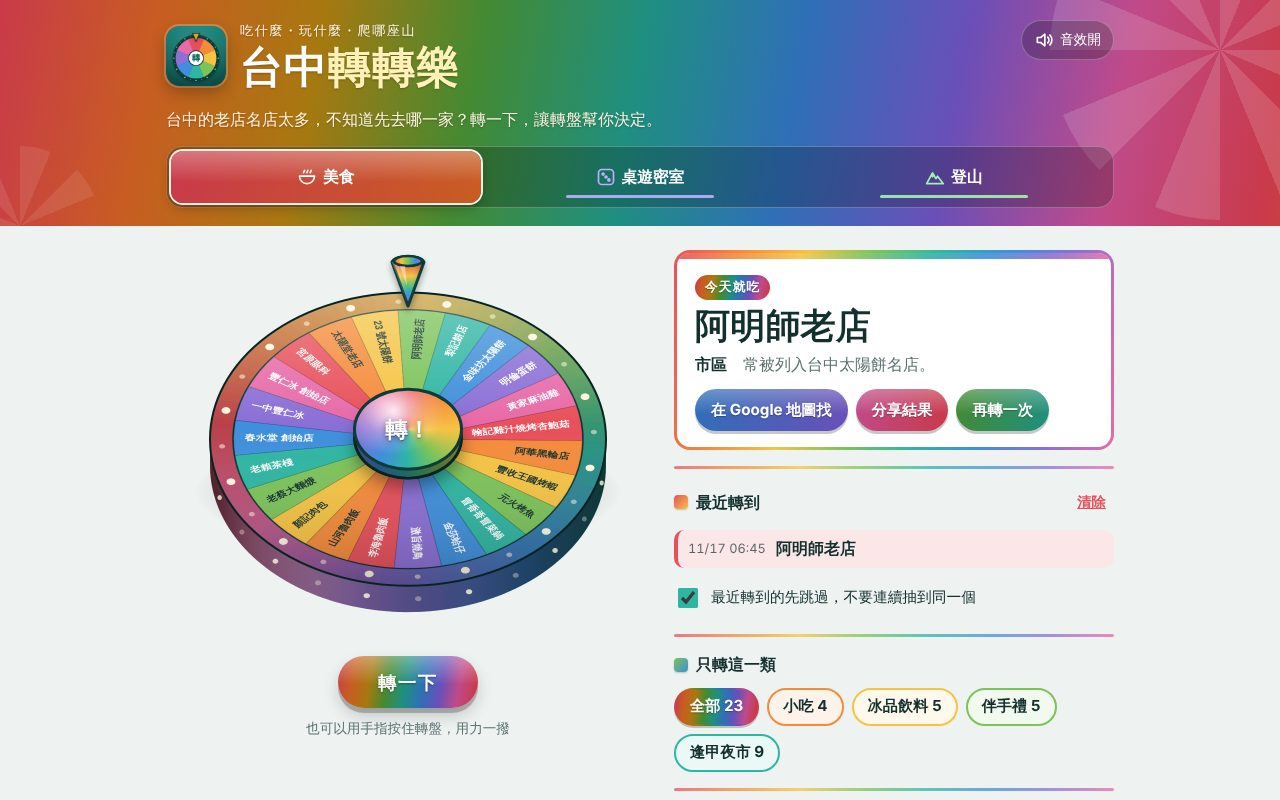
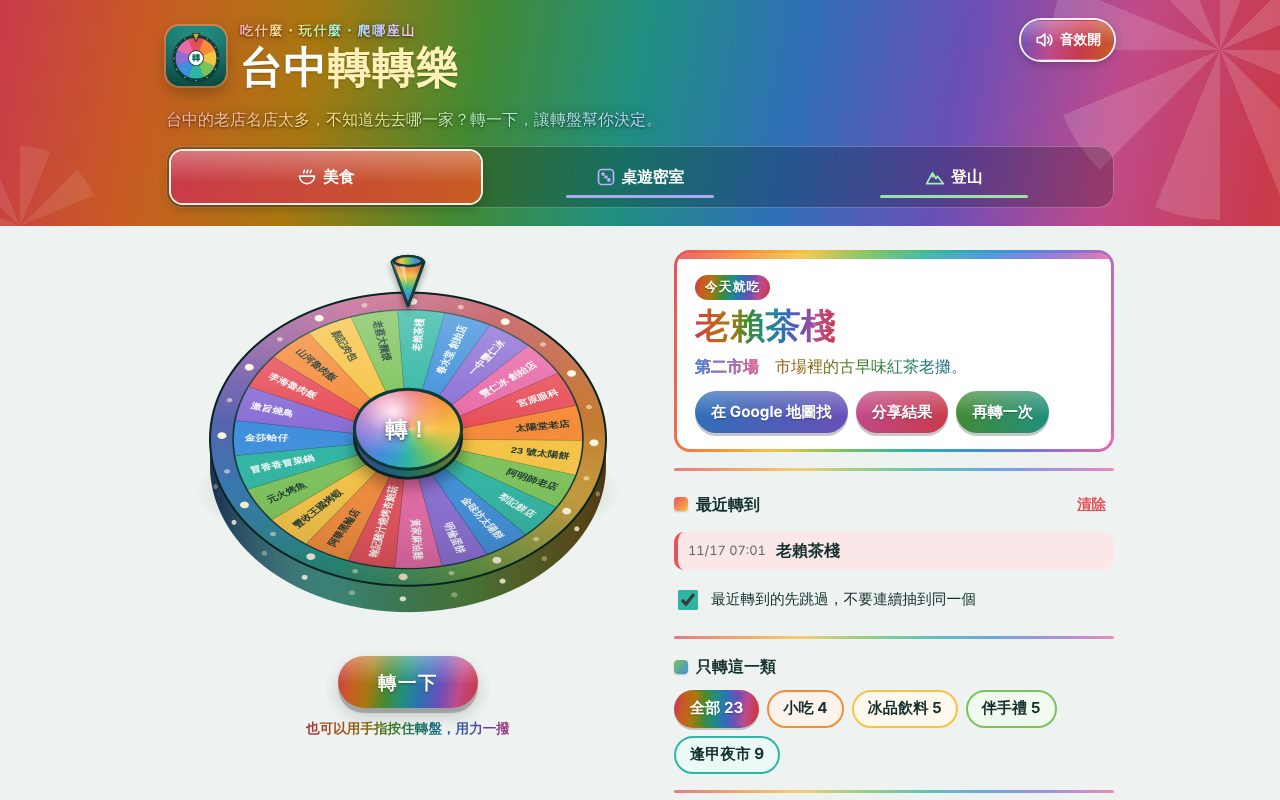
台中轉轉樂：提示文字與介紹文字改成五彩
Claude-Session: https://claude.ai/code/session_01RjTRgTtaL6n1Y88vUja3y2

diff --git a/wheel/index.html b/wheel/index.html
@@ -155,14 +155,22 @@
     width: 60px; height: 60px; flex: none; border-radius: 22%;
     box-shadow: 0 6px 16px rgba(0, 0, 0, .28), 0 0 0 2px var(--hero-line);
   }
-  .eyebrow { margin: 0; font-size: .82rem; letter-spacing: .12em; color: var(--hero-muted); }
+  /* 橫幅上的小標與介紹：淺粉彩虹字＋陰影，在五彩底上也讀得到 */
+  .eyebrow, .intro {
+    background-image: linear-gradient(90deg, #ffb0b8, #ffc89a, #ffe98a, #c2f2a8, #a8efe3, #b8d6ff, #d4c6ff, #ffbfe0);
+    -webkit-background-clip: text; background-clip: text;
+    color: transparent; -webkit-text-fill-color: transparent;
+    text-shadow: none;
+    filter: drop-shadow(0 1px 1px rgba(0, 0, 0, .55)) drop-shadow(0 0 4px rgba(0, 0, 0, .25));
+  }
+  .eyebrow { margin: 0; font-size: .82rem; letter-spacing: .12em; font-weight: 700; width: fit-content; max-width: 100%; }
   .hero h1 {
     font-family: var(--font-display); font-weight: 900;
     font-size: clamp(1.9rem, 6.5vw, 2.7rem); line-height: 1.15; margin: 2px 0 0;
     letter-spacing: .02em;
   }
   .hero h1 span { color: var(--hero-title-accent); }
-  .intro { margin: 0; color: var(--hero-muted); max-width: 40em; }
+  .intro { margin: 0; max-width: 40em; font-weight: 500; }
   @media (max-width: 600px) { .intro { min-height: 3.2em; } }
 
   .tabs {
@@ -217,7 +225,7 @@
   .pointer.tick svg { transform: rotate(-14deg); }
   .wheel-box canvas { touch-action: none; cursor: grab; -webkit-user-select: none; user-select: none; }
   .wheel-box canvas.grabbing { cursor: grabbing; }
-  .wheel-hint { margin: -6px 0 0; font-size: .85rem; color: var(--muted); text-align: center; }
+  .wheel-hint { margin: -6px 0 0; font-size: .85rem; text-align: center; }
   @media (prefers-reduced-motion: reduce) { .pointer svg { transition: none; } }
   .hub {
     position: absolute; left: 50%; top: 48.5%; transform: translate(-50%, -62%);
@@ -360,7 +368,15 @@
   }
   .add button { background: var(--fg); color: var(--bg); border: 0; }
   .reset { background: transparent; color: var(--muted); border: 1px solid var(--line); justify-self: start; }
-  .hint { font-size: .85rem; color: var(--muted); margin: 0; }
+  .hint { font-size: .85rem; margin: 0; }
+  /* 提示文字：深一階的五彩字（深色模式用亮彩虹），小字也看得清楚 */
+  .wheel-hint, .hint {
+    background-image: var(--note-grad);
+    -webkit-background-clip: text; background-clip: text;
+    color: transparent; -webkit-text-fill-color: transparent;
+    font-weight: 600;
+  }
+  .wheel-hint { width: fit-content; max-width: 100%; justify-self: center; }
 
   .actions { display: flex; flex-wrap: wrap; gap: 8px; margin-top: 12px; }
   /* 結果卡上的三個按鈕：各用一段深一階的彩虹漸層，白字才清楚 */

diff --git a/wheel/sw.js b/wheel/sw.js
@@ -1,6 +1,6 @@
 // 台中轉轉樂的 service worker：先存好 App 檔案，沒有網路也能開啟。
 // 修改任何檔案後，請把 CACHE 的版本號加一，手機才會更新到新版。
-const CACHE = "taichung-wheels-v20";
+const CACHE = "taichung-wheels-v21";
 const FILES = [
   "./",
   "./index.html",
